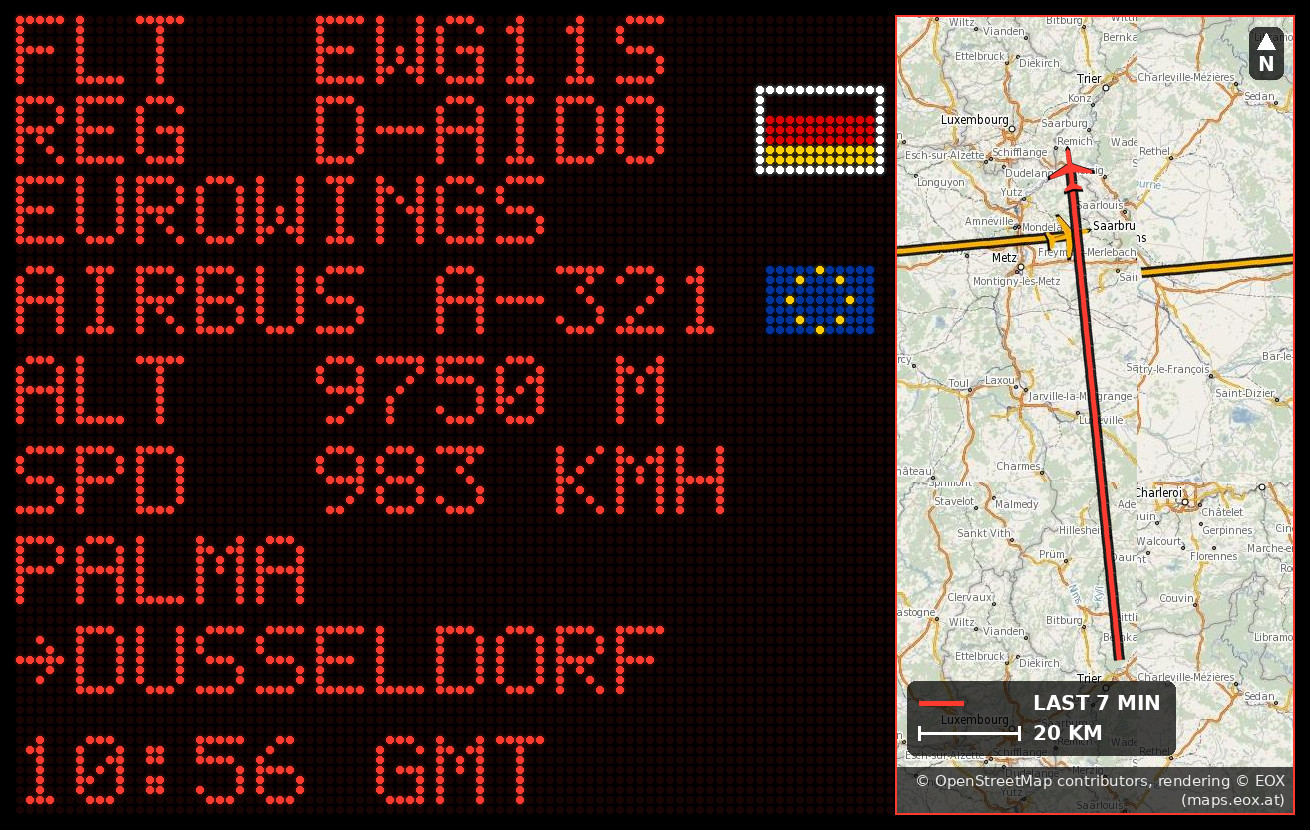
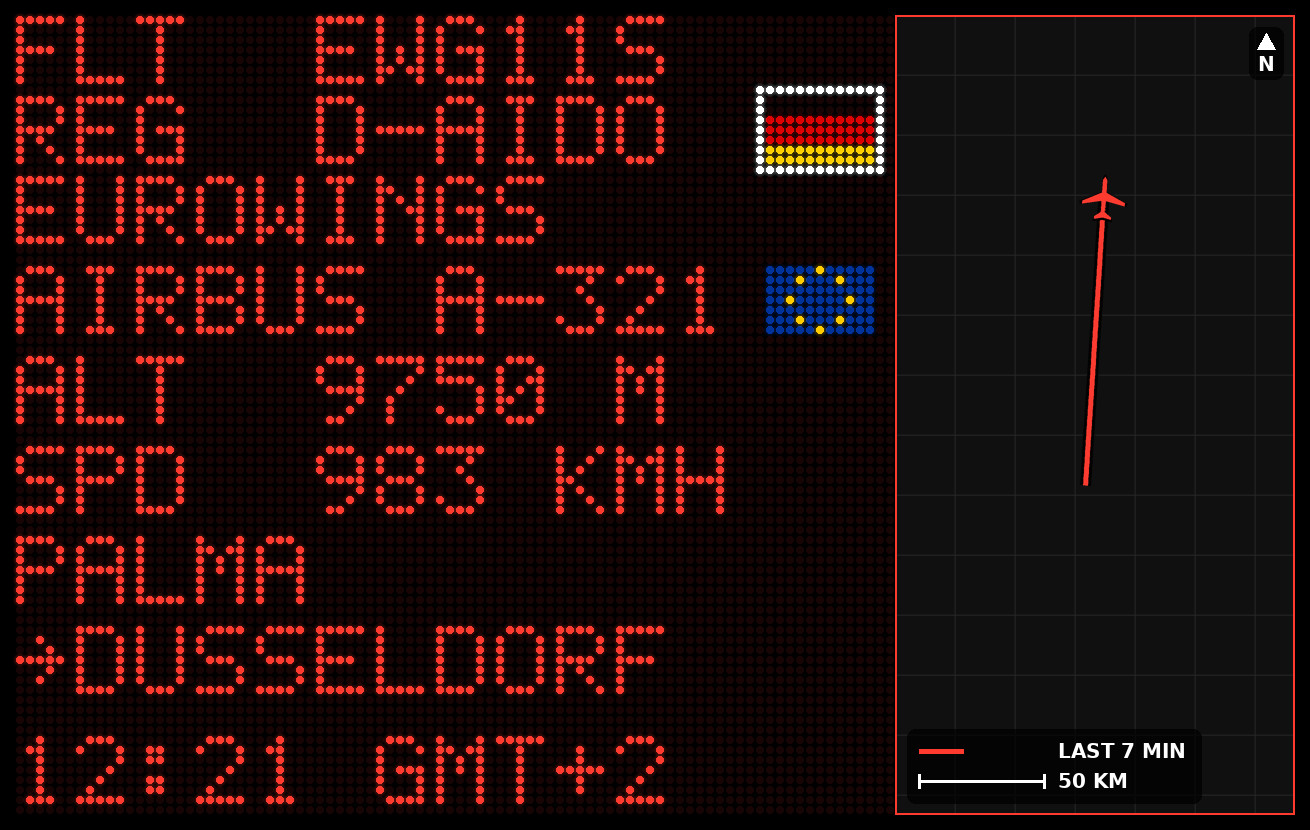
dotmap: the aircraft above the legend; colour messages, previews and docs put right (0.23.0)
From a review of the first commit:
- draw_map chooses the view in the part of the map above the legend and credit
  band: a southbound track on the narrow dotmap strip ended under the legend.
- wall_theme: the messages, the wizard and the menu headers name the colour
  the wall and the posts show (amber while THEME is still blue).
- The update's notice for a blue preset prints the whole preset, turquoise in
  place of blue; a test runs the printed command.
- social test resolves alternate before asking whether the map failed; a Pi
  without Pillow is pointed at social test, which keeps alternate.
- Pillow texts name both map looks; Command-reference, Testing, the demo's
  usage line and Social-sharing (a dotmap section) brought up to date.
- README pictures re-drawn by the current renderers: the dots picture with its
  flag whole, the dotmap picture as drawn without tiles (EOX unreachable here),
  captioned so; no map cut from an earlier post.
- Tests: fetch calls recorded instead of a self.fail swallowed by the thread
  pool, the map column checked in the PNG, shell checks with their cleanup
  outside the condition.

diff --git a/tools/social-render.js b/tools/social-render.js
@@ -67,7 +67,7 @@ function haversineKm(a, b) {
 
 // A scale that keeps the whole track inside the panel: 1 to 500 km per bar, the smallest that fits.
 // The scale bar is BAR dots long and stands for one round distance; the track must fit HALF dots either side of the
-// aircraft (the panel is 42 dots wide). 0.18.2 used a 14-dot bar and let the track run twice past the edge, and a
+// aircraft (the panel is 40 dots wide). 0.18.2 used a 14-dot bar and let the track run twice past the edge, and a
 // "10KM" label pushed the bar out of the frame; an A380 covers 165 km in ten minutes, so "100KM" has to fit too.
 const BAR = 8, HALF = 18;
 function pickScaleKm(extentKm) {

diff --git a/tests/test_social.py b/tests/test_social.py
@@ -497,13 +497,19 @@ class PictureTest(unittest.TestCase):
         self.assertGreater(out["none"][0], 88); self.assertLess(out["none"][1], 127)
 
     def test_with_a_map_the_column_is_left_dark_and_its_place_is_given(self):
-        if shutil.which(social.NODE) is None:
-            self.skipTest("node not installed here")
+        if shutil.which(social.NODE) is None or social_card is None:
+            self.skipTest("node or Pillow not installed here")
         d = tempfile.mkdtemp(); self.addCleanup(shutil.rmtree, d, True)
         got = social._node({"plane": EZY, "trace": trace(60), "units": "metric", "theme": "turquoise", "clock": "12:16 GMT+2",
                             "flags": True, "pitch": 10, "map": True}, os.path.join(d, "dots.png"))
         self.assertEqual(got["map_box"], [15 + 880, 15, 400, 800])    # dots 88 to 127, the whole height, at pitch 10
         self.assertEqual(got["color"], "#00d6d7")
+        lit = lambda path: sum(1 for p in Image.open(path).convert("RGB").crop((895, 15, 1295, 815)).getdata()
+                               if p[0] < 90 and p[1] > 150 and p[2] > 150)
+        self.assertEqual(lit(os.path.join(d, "dots.png")), 0, "no track in dots where the map goes")
+        social._node({"plane": EZY, "trace": trace(60), "units": "metric", "theme": "turquoise", "clock": "12:16 GMT+2",
+                      "flags": True, "pitch": 10}, os.path.join(d, "track.png"))
+        self.assertGreater(lit(os.path.join(d, "track.png")), 0, "without a map, the track is drawn there")
         out = self.node("const g = new Uint32Array(R.GW * R.GH); R.drawWall(g, %s, 'metric', '12:16 GMT+2', true);"
                         " let lit = 0; for (let y = 0; y < R.GH; y++) for (let x = R.MAP_BOX.x; x < R.GW; x++) lit += g[y * R.GW + x] ? 1 : 0;"
                         " console.log(JSON.stringify({lit: lit}));" % json.dumps(dict(EZY, airline="Virgin Atlantic Airways")))
@@ -616,17 +622,38 @@ class FlapPictureTest(unittest.TestCase):
         self.assertTrue(a.startswith("Dot-matrix flight board"), a)
         self.assertIn("Beside it, a terrain map with the aircraft's track", a)
         # no map wanted: the dot-matrix wall with its track in dots, nothing fetched
-        social_card.fetch_tile = lambda *a, **k: self.fail("map none must fetch nothing")
+        asked = []
+        social_card.fetch_tile = lambda *a, **k: asked.append(a)
         info = social.render(EZY, trace(60), dict(CFG, SOCIAL_STYLE="dotmap", SOCIAL_MAP="none"), os.path.join(self.d, "q"))
         self.assertEqual(info["mime"], "image/png")
+        self.assertEqual(asked, [], "map none fetches nothing")
+
+    def test_the_aircraft_is_never_under_the_legend(self):
+        # 0.23.0: on the dotmap's narrow map (400 by 800) a southbound track ended under the legend box, the aircraft
+        # hidden; the view is now chosen above the legend and credit band. The flap map is held to the same.
+        south = [[49.9 - i * 0.008, 6.2, 36000, 1000 + i * 5] for i in range(120)]
+        at = []
+        icon = social_card._icon
+        self.addCleanup(setattr, social_card, "_icon", icon)
+        social_card._icon = lambda d, x, y, *a, **k: at.append(y / 3.0) or icon(d, x, y, *a, **k)   # drawn 3x, reduced
+        light = lambda *a: fake_tile("osm_3857", "jpg", 1, 1, 1)
+        for w, h in ((400, 800), (social_card.MAP_W, social_card.MAP_H)):
+            del at[:]
+            img, shown = social_card.draw_map(south, dict(EZY, track=180), "#ff0000", fetch=light, w=w, h=h)
+            self.assertEqual(shown, "normal")
+            top = next(y for y in range(4, h) if sum(img.getpixel((14, y))) < 300)     # the legend box's top edge
+            self.assertLess(top, h - 74, (w, h))
+            self.assertLess(at[0] + 22, top, "the aircraft (22 px across its centre) is above the legend, %dx%d" % (w, h))
 
     def test_no_tile_no_map_no_credit(self):
         info = social_card.render(self.LINES, trace(60), EZY, os.path.join(self.d, "p.jpg"), map_mode="normal", fetch=lambda *a: None)
         self.assertEqual(info["map"], "none")
         self.assertIsNone(info["credit"])
+        asked = []
         info = social_card.render(self.LINES, trace(60), EZY, os.path.join(self.d, "q.jpg"), map_mode="none",
-                                  fetch=lambda *a: self.fail("map none must fetch nothing"))
+                                  fetch=lambda *a: asked.append(a))
         self.assertEqual(info["map"], "none")
+        self.assertEqual(asked, [], "map none fetches nothing")       # a failure inside fetch would be swallowed
 
     def test_eox_tile_address(self):
         # as WMTSCapabilities.xml gives it: .../{layer}/default/{TileMatrixSet}/{TileMatrix}/{TileRow}/{TileCol}.jpg
@@ -1197,6 +1224,22 @@ class LogFindingsTest(unittest.TestCase):
             with self.assertRaises(Stop):
                 social.cmd_run()
         self.assertIn("running ZenithBoard %s" % social.server.VERSION, out.getvalue())
+
+    def test_the_test_says_the_map_failed_when_the_look_alternates(self):
+        # 0.23.0: `social test` asked the setting ("alternate"), not this post's look, whether a map was due, and
+        # said nothing when the tiles failed
+        import contextlib
+        import io
+        c = dict(CFG, SOCIAL_STYLE="alternate", SOCIAL_MAP="rotate")
+        for name, fake in (("_collect_once", lambda h=None: (c, {"pictures": 0}, EZY, trace(60), "all")),
+                           ("publish", lambda *a, **k: {"map": "none", "text": "t", "alt": "a", "bytes": 1, "preview": "p"}),
+                           ("local_ip", lambda: "192.0.2.1")):
+            self.addCleanup(setattr, social, name, getattr(social, name))
+            setattr(social, name, fake)
+        with contextlib.redirect_stdout(io.StringIO()) as out:
+            social.cmd_test()
+        self.assertIn("Picture: dotmap", out.getvalue())
+        self.assertIn("Map: the tiles could not be fetched", out.getvalue())
 
 
 class PublishTest(unittest.TestCase):

diff --git a/flightinfo/social.py b/flightinfo/social.py
@@ -770,8 +770,10 @@ def render(p, trace, c, out_base):
         look = "dots"
     card = flap_module() if look in MAP_LOOKS else None
     if look in MAP_LOOKS and card is None:       # Pillow not installed (an offline `social look flap`): the dots, and a word
-        print("social: the %s picture needs Pillow: drawing the dot-matrix picture instead. Run: sudo zenithboard social look %s"
-              % ("split-flap" if look == "flap" else "map", look), flush=True)
+        # `social test` installs what the chosen look needs and keeps the setting; `social look` would replace an
+        # `alternate` with the one look named here
+        print("social: the %s picture needs Pillow: drawing the dot-matrix picture instead. Install it with:  sudo zenithboard social test"
+              % ("split-flap" if look == "flap" else "dotmap"), flush=True)
         look = "flap-fallback"
     if card is not None and look == "dotmap":    # 0.23.0: Node draws the dots, the right-hand column dark; Pillow lays the map
         got = _node(dict(spec, map=True), out_base + ".png")
@@ -1134,7 +1136,8 @@ def cmd_test(hex_code=None):
     if not p:
         print("Nothing to show: no aircraft with a track inside %s km right now (or the wall did not answer)." % c.get("SOCIAL_RADIUS_KM"))
         return 1
-    r = publish(p, trace, why, picture_for(c, int(state.get("pictures", 0))), {}, dry=True, keep=os.path.join(STATE_DIR, "preview"))
+    pc = picture_for(c, int(state.get("pictures", 0)))     # this post's look and map, "alternate" and "rotate" resolved
+    r = publish(p, trace, why, pc, {}, dry=True, keep=os.path.join(STATE_DIR, "preview"))
     print("Aircraft: %s %s (%s)" % (p.get("flight") or "", p.get("hex"), p.get("type") or "?"))
     # The test always finds something to show (it adds "all"); say plainly whether the service would post it.
     score, real = interest(p, rules_of(c), state, time.time())
@@ -1145,8 +1148,8 @@ def cmd_test(hex_code=None):
         if not warmed(state, time.time()) and rules_of(c) & {"rare", "farthest"}:
             why_not += "; 'rare' and 'farthest' wait for %d days of history (since %s)" % (WARMUP_DAYS, state.get("since", "today"))
         print("Would the service post it? No: %s. The test shows it anyway." % why_not)
-    print("Picture: %s, %s (%s bytes)" % (picture_words(picture_for(c, int(state.get("pictures", 0)))), r.get("preview") or r.get("preview_error"), r.get("bytes")))
-    if style_of(c) in MAP_LOOKS and map_of(c) != "none" and r.get("map") == "none":
+    print("Picture: %s, %s (%s bytes)" % (picture_words(pc), r.get("preview") or r.get("preview_error"), r.get("bytes")))
+    if style_of(pc) in MAP_LOOKS and map_of(pc) != "none" and r.get("map") == "none":
         print("Map: the tiles could not be fetched (no internet, or the tile service is busy); the track is drawn on black.")
     port = int(server.cfg_float(c, "PORT", 8080))
     print("See it:  http://%s:%d/social/preview" % (local_ip(), port))

diff --git a/flightinfo/social_card.py b/flightinfo/social_card.py
@@ -313,7 +313,14 @@ def draw_map(trace, plane, color, units="metric", mode="normal", cache_dir=None,
     """The map with the track, the aircraft, the legend, north and the credit. Returns (image, shown_mode)."""
     style = MAP_STYLES.get(mode) or MAP_STYLES["normal"]
     color = rgb(color)
-    z, ox, oy = choose_view(trace, w, h)
+    f = font(20)
+    fs = font(15, bold=False)
+    # The legend and the credit take a band at the foot of the map; the track is centred in the area above it, so
+    # the aircraft is never under the legend. A north-south track on the narrow dotmap map put it there (0.23.0).
+    planned = _wrap(ImageDraw.Draw(Image.new("RGB", (1, 1))), style["credit_full"], fs, w - 24) \
+        if style["credit_full"] else []
+    band = 19 * len(planned) + (10 if planned else 0) + 12 + 74 + 12
+    z, ox, oy = choose_view(trace, w, h - band)
     img = Image.new("RGB", (w, h), (16, 16, 16))
     n = 2 ** z
     tiles = [(tx, ty) for ty in range(oy // 256, (oy + h - 1) // 256 + 1) for tx in range(ox // 256, (ox + w - 1) // 256 + 1)
@@ -374,8 +381,6 @@ def draw_map(trace, plane, color, units="metric", mode="normal", cache_dir=None,
 
     # legend, north, credit: drawn at their size, on see-through dark boxes so they read on any map
     d = ImageDraw.Draw(img, "RGBA")
-    f = font(20)
-    fs = font(15, bold=False)
     credit = style["credit_full"] if shown != "none" else None
     clines = _wrap(d, credit, fs, w - 24) if credit else []
     ch = 19 * len(clines) + (10 if clines else 0)

diff --git a/docs/wiki/Project-status.md b/docs/wiki/Project-status.md
@@ -38,7 +38,7 @@ Treat these as likely-working rather than known-working, and please report what 
 |---|---|
 | 978 MHz UAT (United States) | No US hardware has run it |
 | Fixed IP address | The `nmcli` calls are tested; a real address change was not run. Keep a keyboard and screen at hand |
-| The `dotmap` picture (0.23.0) | Drawn here by the real renderers with stand-in map tiles: EOX could not be reached from the build session. The real tiles are the split-flap look's, already posting |
+| The `dotmap` picture (0.23.0) | Drawn here by the real renderers, but with plain stand-in tiles: EOX could not be reached from the build session, so the README shows it without its map. The real tiles are the split-flap look's, already posting; the first real `dotmap` post is still to be seen |
 | The farthest aircraft named on `/stats` | Written in 0.22.0 and run against the real server with a made-up decoder; the real sky, the real route answers and the thread's cost on a Pi 3 are still to be seen |
 | A fresh install from the README | `install.sh` has been run end to end in a container against a scripted whiptail and stand-ins (0.21.1, `tests/test_install.sh`): flags, wizard, every menu, the deployed wall answering, the uninstall. A blank card on a real Pi has not been done |
 | Plane Finder | The installer runs; no feed has been watched |
@@ -58,6 +58,7 @@ Short notes from the Pi that is actually outside. Kept because the second time s
 
 | When | What happened |
 |---|---|
+| 18 October 2026, morning | A post read on a phone: Eurowings EWG11S, D-AIDO, in the dot-matrix look. The German flag beside the registration had lost its right-hand edge under the track panel's frame (the panel started at dot 86, where the flag's outline ends). The owner asked for a real map in place of the dots-only one on the right, in the same rotation as the split-flap posts, and for the dark blue to go (turquoise stays). 0.23.0: the panel starts at 88; a third look, `dotmap`, lays the split-flap look's map beside the dot wall, and `alternate` turns between it and `flap`; the dark blue is gone, a setting still on it named by the update |
 | 18 October 2026, 00:15 | Two screen recordings of a walk through every menu, after the 0.20.1 update. Seen: *Uninstall everything* sat between *Update* and *Exit* as entry 7, one Enter from a Yes; the ACARS tag *[NOT recommended on this Pi]* was cut off at the screen's edge; `status` called a 1 GB Pi a low-memory board to skip ACARS on, the day after that board was measured comfortable; a full update ran `apt` on every feeder for a change to ZenithBoard alone; no way to keep the settings as a file. The Debian patches were switched on during the recording. 0.21.0 answers each: a Maintenance entry with save, restore and an uninstall that asks for the typed word; a quick update; a shorter tag; the measured wording |
 | 17 October 2026, 21:00 | Would the card do better in a Pi 4 (2 GB) that was to hand? The figures said no: 656 MB of 1 GB available with readsb, three feeders, the wall and social sharing, 36 °C, no under-voltage or throttling in seven and a half hours. The Pi 4 stayed in its drawer. The hardware table, which said *estimates, not yet measured*, now starts from these figures, and a [Hardware](Hardware) page says what moving a card to another Pi would change |
 | 17 October 2026, night | The owner's rule for the feed, with a 10 km sharing radius: every aircraft that crosses it, once per crossing, nothing capped — the same aircraft not again five minutes after it leaves, but its return flight, or the next day's, yes. 0.20.0 makes that the behaviour: a crossing ends an hour after the aircraft left the radius, a new callsign is a new flight, one that left before its turn is still posted, and the default gap is none. The Bluesky session is now reused, since a sign-in per post could pass the account's 300 a day. The registration's flag moves beside the `REG` row, on the wall and in the posts: beside the airline, a German flag read as Lufthansa's country |

diff --git a/docs/wiki/Social-sharing.md b/docs/wiki/Social-sharing.md
@@ -1,10 +1,11 @@
 # Social sharing
 
-Off by default. Switched on, the Pi posts the aircraft worth a post — a military tanker, a Beluga, a type it has not seen in a month — to **Bluesky**, as a picture with a short text. Two looks for the picture, both drawn by the Pi itself in a second or two, on a Pi 3B included, with no browser:
+Off by default. Switched on, the Pi posts the aircraft worth a post — a military tanker, a Beluga, a type it has not seen in a month — to **Bluesky**, as a picture with a short text. Three looks for the picture, all drawn by the Pi itself in a second or two, on a Pi 3B included, with no browser:
 
 | Look | What it shows |
 |---|---|
-| `dots` (default) | The dot-matrix wall as it is at that moment, and in the right-hand column the aircraft's track over the last minutes, drawn in the same dots |
+| `dots` (default) | The dot-matrix wall as it is at that moment, and in the right-hand column the aircraft's track over the last minutes, drawn in the same dots. Nothing is fetched |
+| `dotmap` (0.23.0) | The same dot-matrix wall, and in the right-hand column a map with the aircraft's track: the split-flap look's map, on a narrower strip |
 | `flap` | The split-flap board, beside a map with the aircraft's track. The map can be a plain map, a dark one, satellite, terrain, or none |
 
 ```bash
@@ -109,6 +110,14 @@ The wall's rows as the tablet shows them (`FLT  ETD11K`, `REG  A6-APD`, then air
 | a bar with end ticks, then `20KM` | that bar is twenty kilometres on the track's scale |
 
 The scale is chosen for each picture, from 1 to 500 km per bar, the smallest that keeps the whole track inside the frame. The flags are the wall's: the country of the registration beside the `REG` row (since 0.20.0; it sat beside the airline, where it read as the airline's country), and the maker's beside the model.
+
+### Dot-matrix with a map
+
+![The dot-matrix picture with a map, drawn here without its tiles](https://github.com/regis57/ZenithBoard/raw/main/docs/images/social-dotmap.jpg)
+
+`sudo zenithboard social look dotmap` (0.23.0, asked for by the owner): the dot-matrix wall as above, and in the right-hand column, instead of the track in dots, the map of the split-flap look below — the same four maps, the same credit, the same `social map` setting and its `rotate` — with the track, the aircraft, the key and north. Node draws the dots with that column left dark and says where it is; Pillow lays the map there and writes a JPEG under Bluesky's limit. The map is a strip 400 pixels wide and 800 high, so the view is chosen in the part above the key and the credit: an aircraft flying south ends above the key, not under it. With `social map none` the look draws the track in dots, as `dots` does, and fetches nothing.
+
+*The picture above was made where the tile service cannot be reached: it is what the Pi posts when the tiles do not come, the track on a dark grid, with no credit. With the tiles, the strip is the map of the split-flap picture.*
 
 ### Split-flap with a map
 

diff --git a/CHANGELOG.md b/CHANGELOG.md
@@ -6,7 +6,9 @@ From a Bluesky post read on a phone (Eurowings EWG11S, D-AIDO).
 - **`alternate` is now the two looks with a map**, `dotmap` then `flap`, as asked; the track drawn in dots left the turn. It stays a look of its own, `social look dots`, which fetches no map. Alternating with the maps turning, each look meets each of the four maps over eight posts and each colour over ten.
 - **The flags show whole in the dot-matrix picture.** Its right-hand panel started at dot 86, and its frame was drawn over the last column of an outlined flag (the German flag beside D-AIDO lost its right edge). It starts at 88 now, two dots clear: a dark column, then the panel. Its legend (`100KM`) and its "no track" words fit inside the narrower frame. The wall itself was never affected: its right-hand column starts at 90.
 - **The dark blue is gone**, from the wall (dot matrix and split-flap), the tablet's gear, `zenithboard color`, the menu, the presets and the posts; turquoise stays. A setting the owner made is not changed by an update: a wall, a preset or a picture colour still set to blue shows the Pi's colour, or amber, and `sudo zenithboard update` names each one with the command to choose another. A tablet that remembered blue, or opens `?theme=blue`, falls back the same way rather than to unstyled dots.
-- `social look` and `social map` with no word print their choices instead of stopping on an unset variable.
+- **The aircraft is never under the legend.** On the dotmap's narrow map a track flown north to south ended under the legend box; the view is now chosen in the part of the map above the legend and the credit, on the split-flap map too.
+- The messages that name the wall's colour say the one the posts and the wall show: amber while the setting still says blue, not "blue". The update's notice for a preset set to blue gives the whole command, its other settings included (`preset add` replaces a preset).
+- `sudo zenithboard social test` with `alternate` now says when the map tiles could not be fetched, like it does for one look. A Pi without Pillow, set to a map look, is told to run `social test` (which installs it and keeps the look) instead of a `social look` that would have replaced `alternate`.
 
 ## 0.22.0
 - **The statistics page names the farthest aircraft.** Under the four numbers, two lines: the farthest aircraft of the day and of the thirty days, with the date and time, the airline and flight number, where it flew from and to, the model and registration, the altitude, the distance, and the city of 100 000 inhabitants or more nearest to it: `14/10 21:07 · easyJet U21234 (EZY1234) · Edinburgh (EDI) → Saint-Louis (BSL) · AIRBUS A-319 G-EZAB · 10 970 m · 329 km, 55 km from Lille, FR`. Asked for from the real page, where *355 km* stood alone.

diff --git a/docs/wiki/Testing.md b/docs/wiki/Testing.md
@@ -34,7 +34,7 @@ Run the whole set before pushing. It takes well under a minute, and the shell te
 | `test_update_sync.sh`, `test_versions.sh` | That the updater knows every component, that every unit file is refreshed, that the wall is asked which version it is actually running and restarted when it is behind, and that the two version numbers agree |
 | `test_fr24_key.sh` | The Flightradar24 signing key, by fingerprint |
 | `test_menus.sh` | Every menu has exactly one `back` entry and no dead item |
-| `test_install.sh` | `install.sh` run as a newcomer runs it, against a whiptail that answers from a script and records every screen: the flags, the first-run wizard from a blank settings file to the main menu, a bad latitude or altitude asked again, the hardware notice once, a clear stop when whiptail cannot be installed, no error on a machine that is not a Pi, the six colours and the six settings groups the README names |
+| `test_install.sh` | `install.sh` run as a newcomer runs it, against a whiptail that answers from a script and records every screen: the flags, the first-run wizard from a blank settings file to the main menu, a bad latitude or altitude asked again, the hardware notice once, a clear stop when whiptail cannot be installed, no error on a machine that is not a Pi, the five colours and the six settings groups the README names |
 | `test_format.js` | Formatting and unit conversion on the wall |
 | `test_shapes.js`, `test_scene.js`, `test_flap.js` | Silhouettes, the animated scene, the split-flap board |
 | `test_settings.sh` | Settings export never carries a secret, import takes only `KEY=VALUE` and keeps a way back; preset names, keys and what the wall serves; Wi-Fi hardening sets two things and `off` puts them back (against an `nmcli` stub); the `stats gaps` counters against a wall stub on the loopback; the typed word before each destructive menu step |

diff --git a/docs/wiki/Command-reference.md b/docs/wiki/Command-reference.md
@@ -41,7 +41,7 @@ Every `zenithboard` command, grouped by what you are trying to do. `zenithboard`
 | `zenithboard social picture` | yes | The picture: dot-matrix or split-flap, its colour, the map (a wizard) |
 | `zenithboard social look dots` · `dotmap` · `flap` · `alternate` | yes | The dot-matrix wall with the track in dots (no map), the dot-matrix wall with a map, the split-flap board with a map, or `dotmap` and `flap` in turn (one post each) |
 | `zenithboard social colour NAME` · `wall` · `rotate` | yes | amber, green, red, white, turquoise, the wall's own colour, or the colours in turn |
-| `zenithboard social map NAME` · `rotate` | yes | The split-flap look's map: normal, night, satellite, terrain, none, or the four maps in turn |
+| `zenithboard social map NAME` · `rotate` | yes | The map of the dotmap and flap looks: normal, night, satellite, terrain, none, or the four maps in turn |
 | `zenithboard social test [HEX]` | | Draw the picture and print the text for the best candidate (or that aircraft); post nothing. The picture is at `/social/preview` |
 | `zenithboard social on` · `off` · `status` | yes | Post the aircraft overhead as a picture of the wall (off by default). `off` keeps the account |
 | `zenithboard social post [HEX]` | | Post now, once, whatever the gap. That aircraft then counts as posted for its crossing |

diff --git a/README.md b/README.md
@@ -523,7 +523,7 @@ Off by default. Switched on, the Pi posts the aircraft worth a post — a milita
 | `dotmap` (0.23.0) | `flap` |
 |---|---|
 | ![Dot-matrix picture with a map](docs/images/social-dotmap.jpg) | ![Split-flap picture with a map](docs/images/social-flap.jpg) |
-| The dot-matrix wall beside a map with the aircraft's track: OpenStreetMap, a darkened one, satellite or terrain. *A preview: the map is cut from an earlier post* | The split-flap board beside the same map |
+| The dot-matrix wall beside a map with the aircraft's track: OpenStreetMap, a darkened one, satellite or terrain. *Shown here without its map, as the Pi draws it when the tile service does not answer: the tiles could not be reached from where this preview was made* | The split-flap board beside the same map |
 
 The third, `dots`, is the dot-matrix wall with the track drawn in dots and no map, nothing fetched ([picture](docs/images/social-dots.png)). `alternate` takes `dotmap` and `flap` in turn, and the map and the colour can turn too.
 
